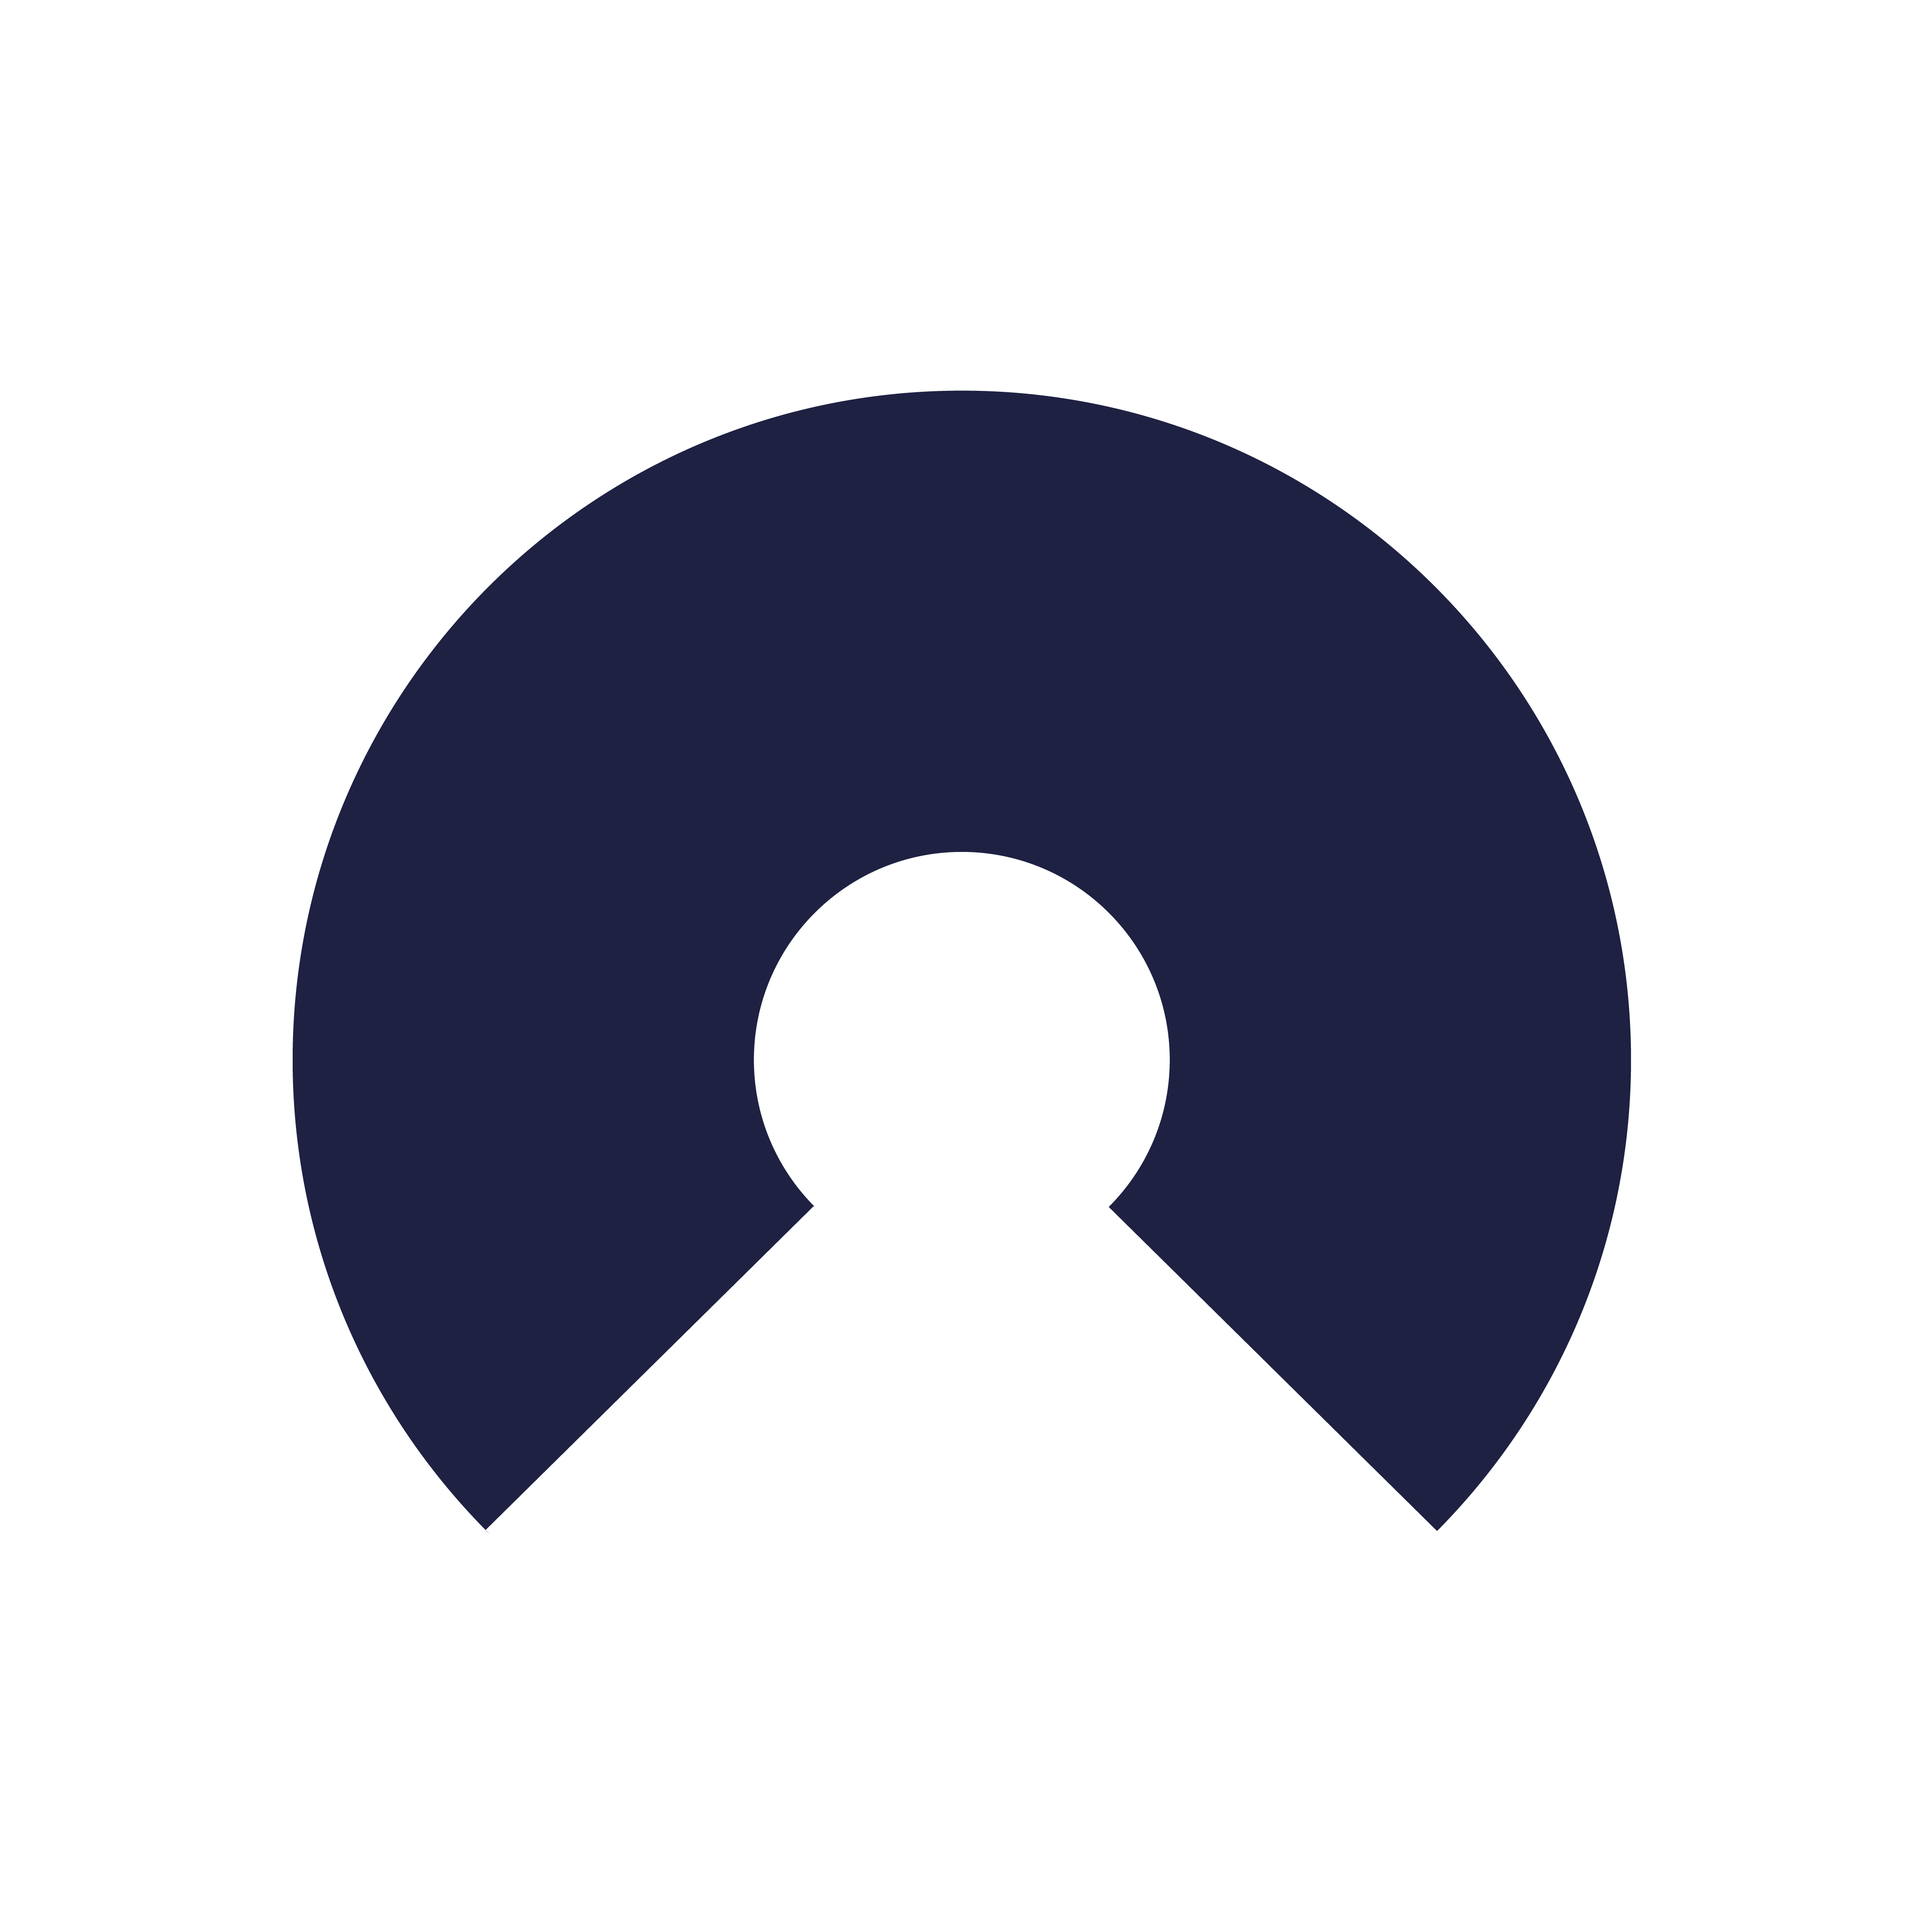
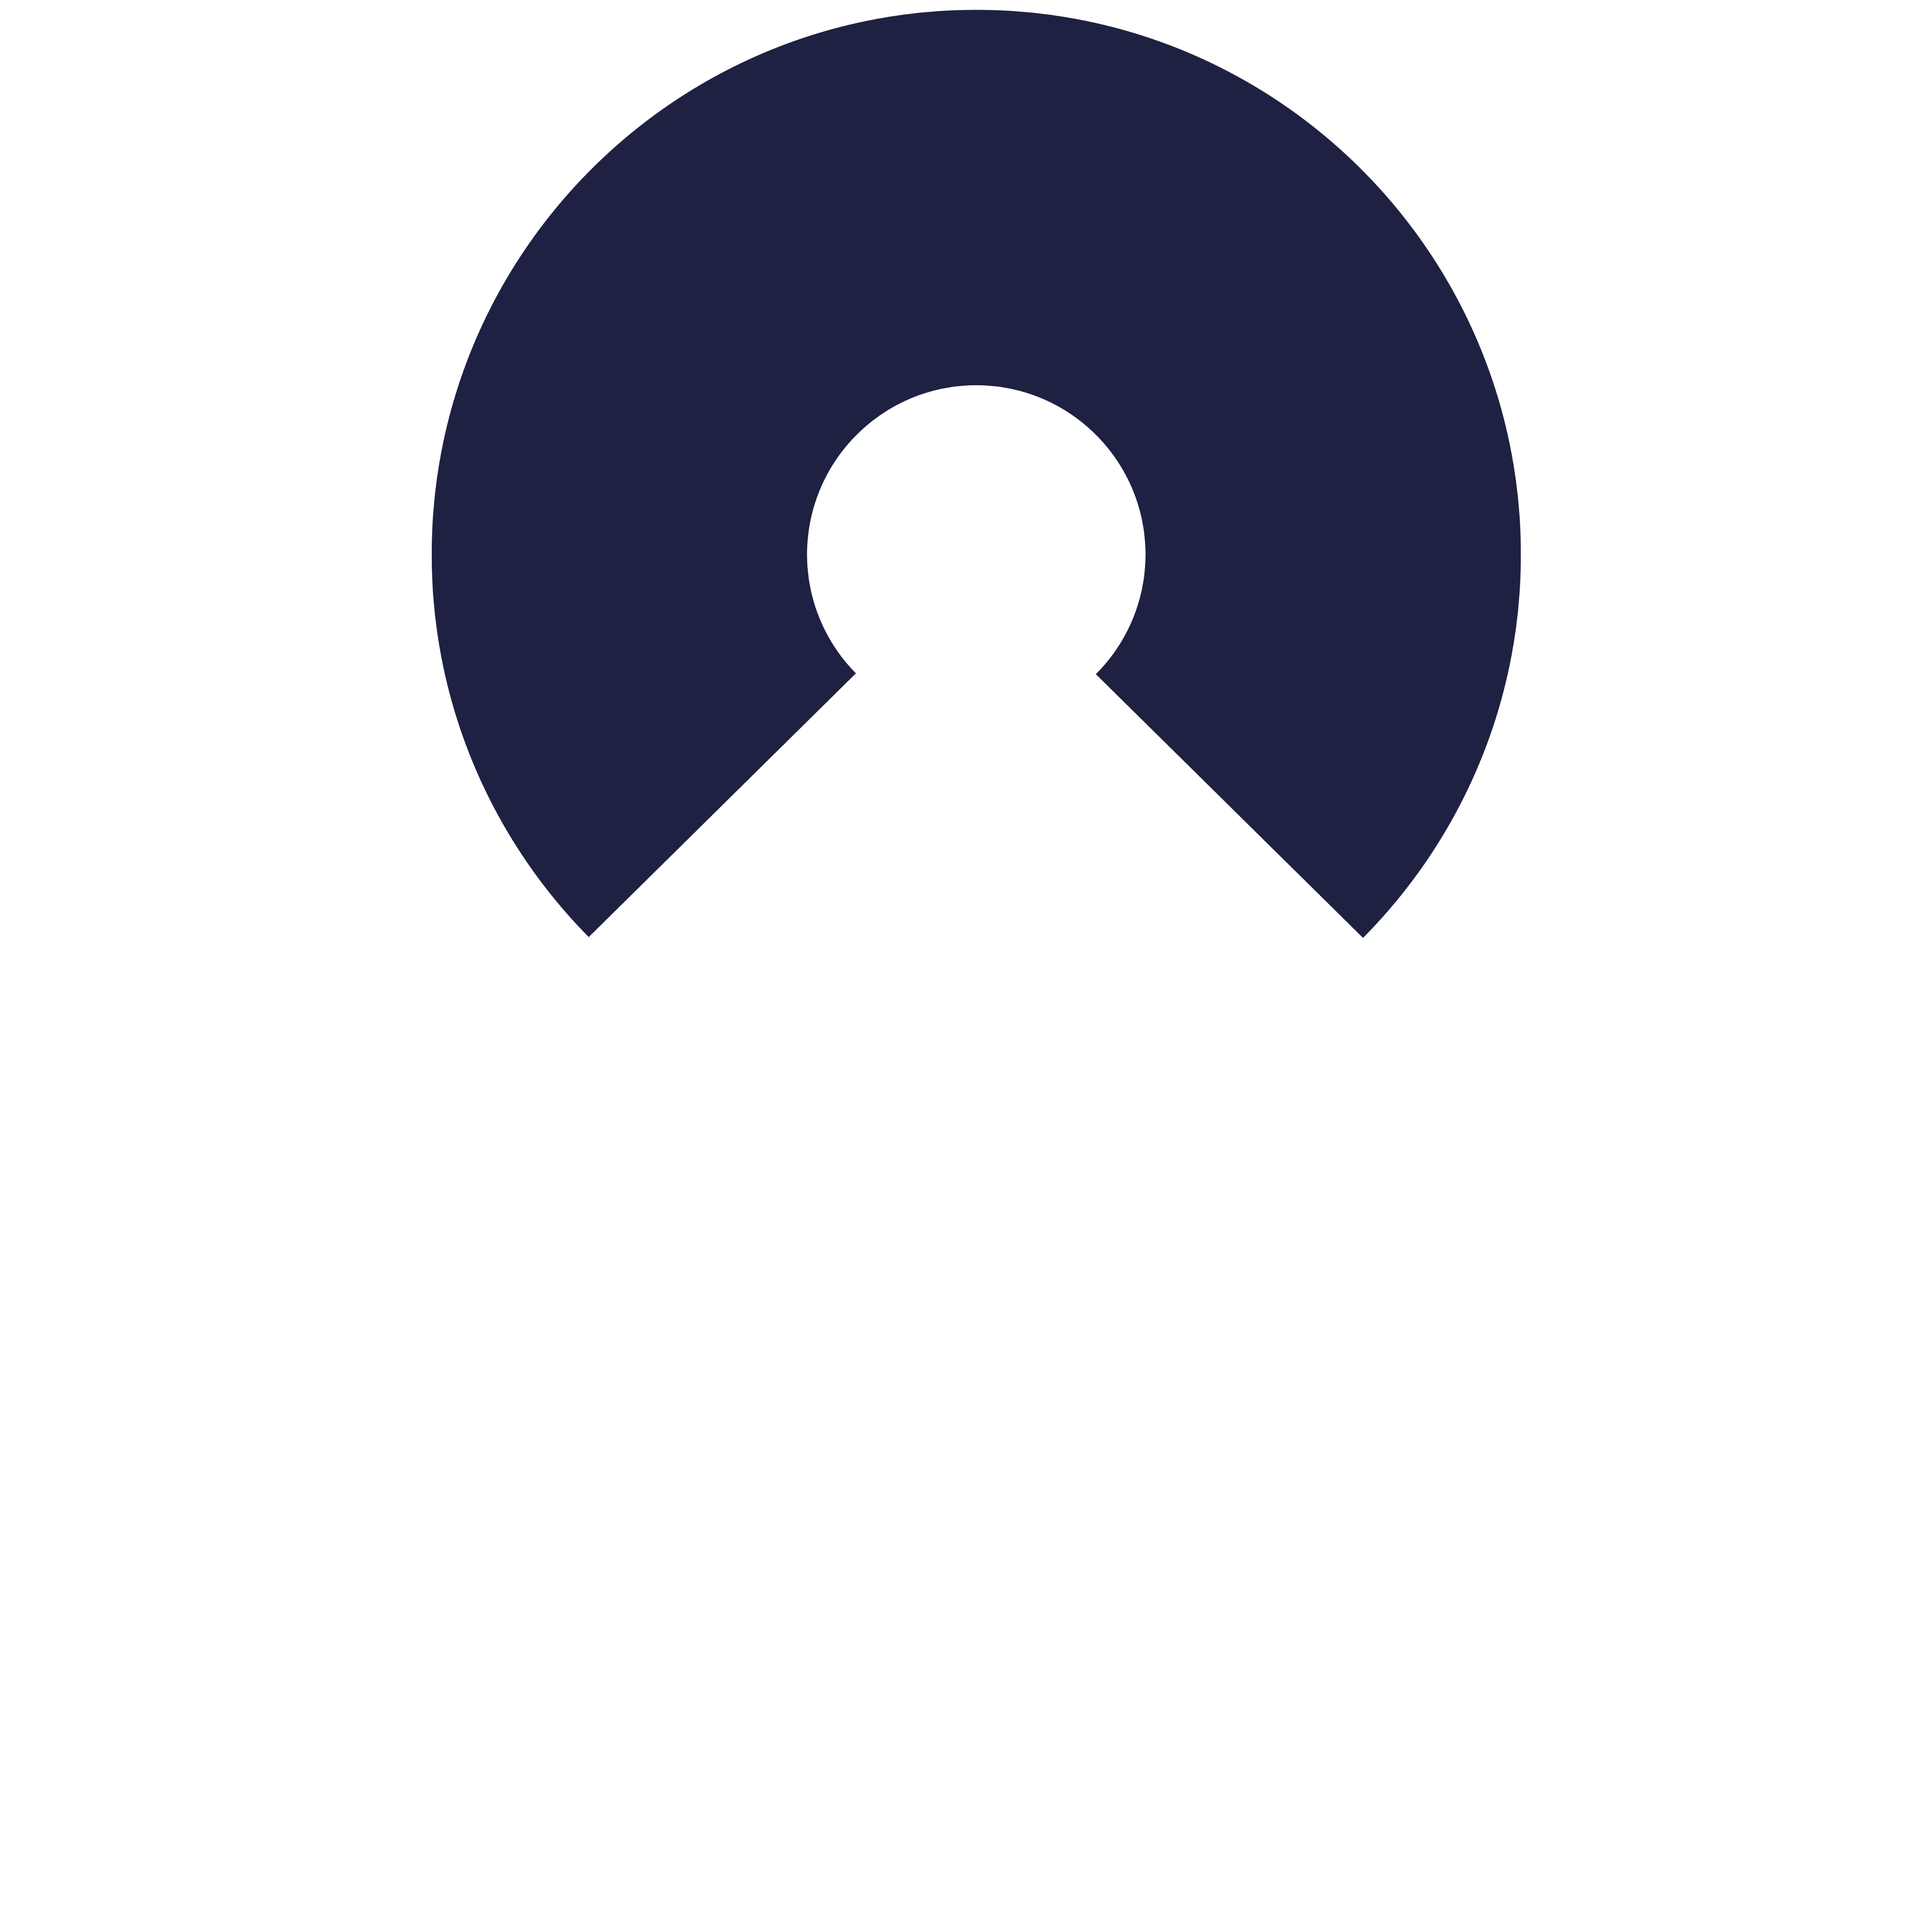
eyebrows

Changed region(s): [[0.1248, 0.0, 0.8735, 0.8111]]

diff --git a/www/facedisplay.js b/www/facedisplay.js
@@ -52,7 +52,8 @@ function modelReady() {
 function centerCanvas() {
     var x = (windowWidth - width) / 2;
     // var y = (windowHeight - height) / 2;
-    var y = 3 * (windowHeight - height) / 4;
+    //var y = 3 * (windowHeight - height) / 4;
+    var y = windowHeight - height;
     cnv.position(x, y);
 }
 
@@ -68,6 +69,7 @@ function setup() {
     /* use the following line for an MJPEG video stream */
     // myCamera = loadCameraMJPEGWH("http://127.0.0.1:8002/cam.mjpg", windowWidth, windowHeight, true);
     // myCamera = loadCameraMJPEGWH("http://127.0.0.1:8080", 640, 480, true);
+    // myCamera = loadCameraMJPEGWH("http://localhost:8080/video.mjpg", 640, 480, true);
     
     // myCamera.hide();
 
@@ -78,7 +80,16 @@ function setup() {
 
     if (useFaceMesh) {
         /* instantiate the facemesh tracker library */
-        facemesh = ml5.facemesh(myCamera, modelReady);
+        const faceOptions = {
+            flipHorizontal: false, // boolean value for if the video should be flipped, defaults to false
+            maxContinuousChecks: 5, // How many frames to go without running the bounding box detector. Only relevant if maxFaces > 1. Defaults to 5.
+            detectionConfidence: 0.90, // Threshold for discarding a prediction. Defaults to 0.9.
+            maxFaces: 10, // The maximum number of faces detected in the input. Should be set to the minimum number for performance. Defaults to 10.
+            scoreThreshold: 0.75, // A threshold for removing multiple (likely duplicate) detections based on a "non-maximum suppression" algorithm. Defaults to 0.75.
+            iouThreshold: 0.30, // A float representing the threshold for deciding whether boxes overlap too much in non-maximum suppression. Must be between [0, 1]. Defaults to 0.3.
+        };
+        facemesh = ml5.facemesh(myCamera, faceOptions, modelReady);
+        // facemesh = ml5.facemesh(myCamera, modelReady);
         /* set up an event that fills the global variable "predictions" with an array every time new predictions are made */
         facemesh.on("predict", results => {
             predictions = results;
@@ -118,7 +129,7 @@ function setup() {
     // lipTopImage = loadImage("assets/img/faces/top-lip/top-lip.png");
 
     textFont(fontAstronaut);
-    textSize(windowHeight / 30);
+    textSize(windowHeight / 40);
     textAlign(CENTER, CENTER);
     
     // var mv = document.getElementById("v");
@@ -197,10 +208,14 @@ function drawFaceMeshPoints() {
 }
 
 function drawFaceMeshFeatures() {
+    // console.log(predictions.length);
     for (let i = 0; i < predictions.length; i += 1) {
         const keypoints = predictions[i].scaledMesh;
+        // console.log(keypoints);
 
         const annotations = predictions[i].annotations;
+
+        // console.log(annotations);
         
         const silhouette = annotations.silhouette; // polygon
         drawFeatureLine(silhouette, true);
@@ -300,28 +315,34 @@ function drawFaceMeshFeatures() {
             // console.log("size: " + mSize);
 
             // head
-            drawFeatureElement(keypoints[10], false, angleRad, mSize, headImages[faceIndex]);
+            drawFeatureElement(keypoints[164], false, 3.1415-angleRad, mSize, headImages[faceIndex]);
 
             // left ear
             drawFeatureElement(keypoints[234], false, angleRad, mSize, earImages[faceIndex]);
 
             // right ear
-            drawFeatureElement(keypoints[454], true, angleRad, mSize, earImages[faceIndex]);
+            drawFeatureElement(keypoints[454], true, 3.1415-angleRad, mSize, earImages[faceIndex]);
 
             // left eye
             drawFeatureElement(keypoints[159], false, angleRad, mSize, eyeImages[faceIndex]);
 
             // right eye
-            drawFeatureElement(keypoints[386], true, angleRad, mSize, eyeImages[faceIndex]);
+            drawFeatureElement(keypoints[386], true, 3.1415-angleRad, mSize, eyeImages[faceIndex]);
+
+            // left eyebrow
+            drawFeatureElement(keypoints[223], false, angleRad, mSize, eyebrowImages[faceIndex]);
+
+            // right eyebrow
+            drawFeatureElement(keypoints[443], true, 3.1415-angleRad, mSize, eyebrowImages[faceIndex]);
 
             // upper lip
-            drawFeatureElement(keypoints[11], false, angleRad, mSize, lipTopImages[faceIndex]);
+            drawFeatureElement(keypoints[11], false, 3.1415-angleRad, mSize, lipTopImages[faceIndex]);
 
             // bottom lip
             drawFeatureElement(keypoints[16], true, angleRad, mSize, lipBottomImages[faceIndex]);
 
             // nose
-            drawFeatureElement(noseTip[0], false, angleRad, mSize*.7, noseImages[faceIndex]);
+            drawFeatureElement(noseTip[0], false, 3.1415-angleRad, mSize, noseImages[faceIndex]);
 
         }
         

diff --git a/www/mjpegtest.js b/www/mjpegtest.js
@@ -1,28 +1,139 @@
-var WIDTH = 640;
-var HEIGHT = 480;
-var CAMERA_IP = "127.0.0.1";
-var CAMERA_PORT = "8080"
-var CAMERA_URL = "";
+// var WIDTH = 640;
+// var HEIGHT = 480;
+// var CAMERA_IP = "127.0.0.1";
+// var CAMERA_PORT = "8080"
+// var CAMERA_URL = "http://localhost:8080/video.mjpg";
 
-var LEFT = "LEFT";
-var RIGHT = "RIGHT";
+// var LEFT = "LEFT";
+// var RIGHT = "RIGHT";
 
-var imageStream = null;
+// var myCamera = null;
+// var canvas;
+
+// var facemesh; // FaceMesh
+// let predictions = [];
+
+// function modelReady() {
+//   console.log("FaceMesh model ready");
+// }
+
+// function loadCanvas(w, h) {
+//   canvas = createCanvas(w, h);
+//   canvas.position(0,0);
+// }
+
+// // function centerCanvas() {
+// //   var x = (windowWidth - width) / 2;
+// //   // var y = (windowHeight - height) / 2;
+// //   //var y = 3 * (windowHeight - height) / 4;
+// //   var y = windowHeight - height;
+// //   canvas.position(x, y);
+// // }
+
+// function setup() {
+//   // CAMERA_URL = "http://" + CAMERA_IP + ":" + CAMERA_PORT;
+  
+//   createCanvas(WIDTH, HEIGHT);
+//   myCamera = createImg(CAMERA_URL, imageReady);
+//   myCamera.hide();
+
+//   // facemesh = ml5.facemesh(myCamera, modelReady);
+//   //       // facemesh = ml5.facemesh(myCamera, modelReady);
+//   //       /* set up an event that fills the global variable "predictions" with an array every time new predictions are made */
+//   // facemesh.on("predict", results => {
+//   //     predictions = results;
+//   // });
+// }
+
+// function imageReady() {
+//   facemesh = ml5.facemesh(modelReady);
+
+//   facemesh.on("predict", results => {
+//     predictions = results;
+//   });
+// }
+
+// function draw() {
+//   background(220);
+//   if (myCamera) {
+//     image(myCamera, 0, 0); 
+//   }
+//   if (predictions.length > 0) {
+//     drawKeypoints();
+//   }
+// }
+
+
+
+// function drawKeypoints() {
+//   for (let i = 0; i < predictions.length; i += 1) {
+//     const keypoints = predictions[i].scaledMesh;
+
+//     // Draw facial keypoints.
+//     for (let j = 0; j < keypoints.length; j += 1) {
+//       const [x, y] = keypoints[j];
+
+//       fill(0, 255, 0);
+//       ellipse(x, y, 5, 5);
+//     }
+//   }
+// }
+
+
+let facemesh;
+let predictions = [];
+let img;
 
 function setup() {
-  CAMERA_URL = "http://" + CAMERA_IP + ":" + CAMERA_PORT;
-  
-  createCanvas(WIDTH, HEIGHT);
-  imageStream = createImg(CAMERA_URL);
-  imageStream.hide();
+  // Create a canvas that's at least the size of the image.
+  createCanvas(640, 480);
+
+  // create an image using the p5 dom library
+  // call modelReady() when it is loaded
+  // img = createImg("http://localhost:8080/video.mjpg", imageReady);
+  img = createImg("http://localhost:8001/stream/video.mjpeg", imageReady);
+  // set the image size to the size of the canvas
+
+  img.hide(); // hide the image in the browser
+  // frameRate(1); // set the frameRate to 1 since we don't need it to be running quickly in this case
 }
 
+// when the image is ready, then load up poseNet
+function imageReady() {
+  facemesh = ml5.facemesh(modelReady);
+
+  facemesh.on("predict", results => {
+    predictions = results;
+  });
+}
+
+// when poseNet is ready, do the detection
+function modelReady() {
+  console.log("Model ready!");
+  facemesh.predict(img);
+}
+
+// draw() will not show anything until poses are found
 function draw() {
-  background(220);
-  if (imageStream) {
-    image(imageStream, 0, 0); 
+  image(img, 0, 0, width, height);
+  if (predictions.length > 0) {
+    
+    drawKeypoints();
+    // noLoop(); // stop looping when the poses are estimated
   }
 }
 
+// A function to draw ellipses over the detected keypoints
+function drawKeypoints() {
+  for (let i = 0; i < predictions.length; i += 1) {
+    const keypoints = predictions[i].scaledMesh;
 
+    // Draw facial keypoints.
+    for (let j = 0; j < keypoints.length; j += 1) {
+      const [x, y] = keypoints[j];
 
+      fill(0, 255, 0);
+      ellipse(x, y, 5, 5);
+    }
+  }
+}

diff --git a/www/index.html b/www/index.html
@@ -1,12 +1,10 @@
 <html>
-
+  
   <head>
-	  
-	 
 	<title>MOCD facedisplay</title>
-	  
     <meta charset="UTF-8">
     <meta http-equiv="X-UA-Compatible" content="IE=edge">
+    <meta http-equiv="refresh" content="600">
     <meta name="viewport" content="width=device-width, initial-scale=1">
     <script src="libs/clmtrackr.js"></script>
     <script src="libs/model_pca_20_svm.js"></script>
@@ -14,14 +12,13 @@
     <script src="libs/p5.dom.js"></script>
     <script src="libs/p5.sound.js"></script>
     <script src="libs/ml5.js"></script>
+    <!-- <script src="https://unpkg.com/ml5@latest/dist/ml5.js"></script> --> 
     <script src="libs/emotion_classifier.js"></script>
     <script src="libs/emotionmodel.js"></script>
     <script src="libs/utils.js"></script>
     <script src="facedisplay.js"></script>
     <!-- <script src="mjpegtest.js"></script> -->
-
     <style> body { padding: 40; margin: 20; } </style>
-
   </head>
 
   <body style="background-color:black;">
